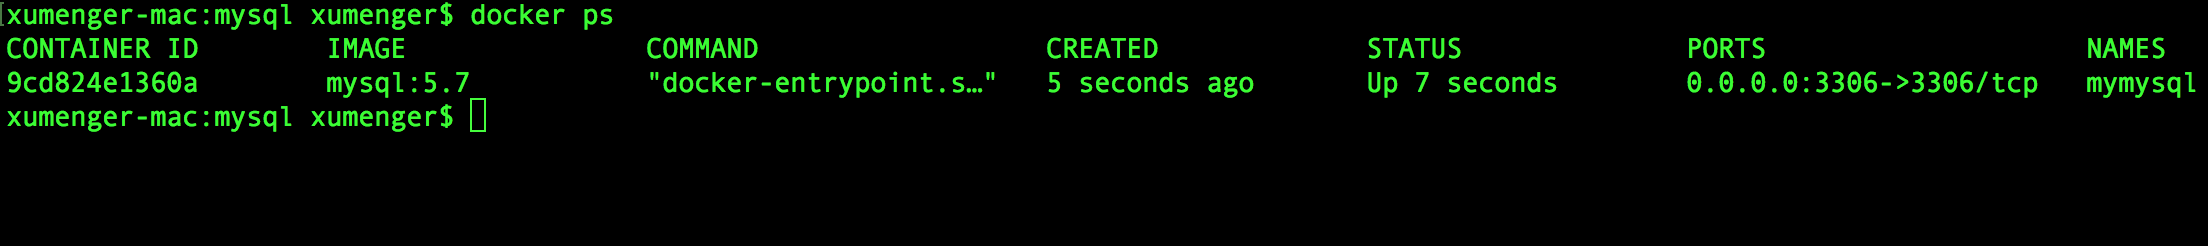
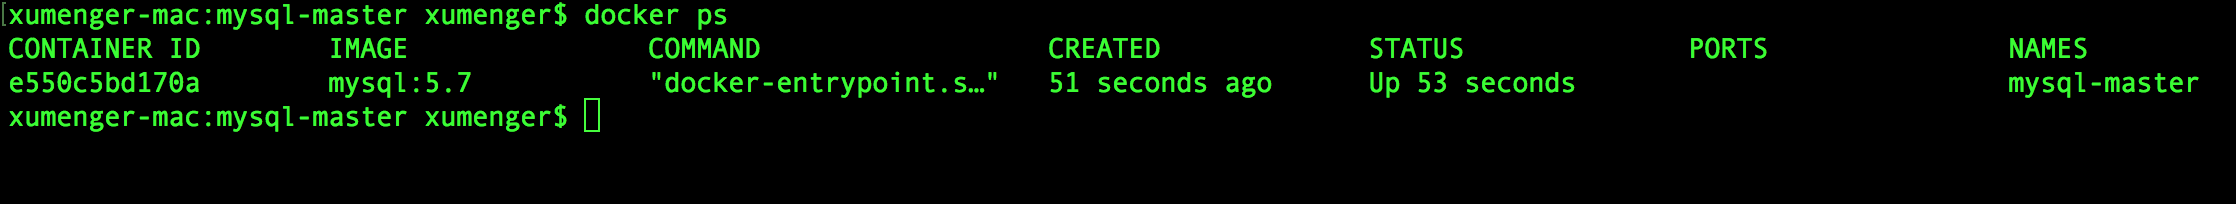
Docker MySQL

Changed region(s): [[0.0, 0.0, 0.3438, 0.6471], [0.2812, 0.1471, 0.7188, 0.4706], [0.75, 0.1471, 1.0, 0.4706]]

diff --git a/_posts/2018-06-26-mysql-master-slave-20180626.md b/_posts/2018-06-26-mysql-master-slave-20180626.md
@@ -2,7 +2,7 @@
 layout: post
 title: MySQL主从复制
 categories: 大型系统架构 数据库之sql 数据库之mysql
-tags: sql mysql 数据库 读写分离 主从机制 binlog 二进制日志 redis docker 虚拟化 
+tags: sql mysql 数据库 读写分离 主从机制 binlog 二进制日志 redis docker 虚拟化 容器 
 ---
 
 ## 关于Docker
@@ -70,22 +70,24 @@ Docker 允许你在容器内运行应用程序， 使用`docker run`命令来在
 然后使用下面的命令运行MySQL 容器
 
 ```
-$ mkdir mysql
-$ cd mysql
+$ mkdir mysql-master
+$ cd mysql-master
 $ mkdir conf logs data
-$ docker run -p 3306:3306 \
-  --name mymysql \
+$ docker run -p 3301:3306 \
+  --name mysql-master \
   -v $PWD/conf:/etc/mysql/conf.d \
   -v $PWD/logs:/logs \
   -v $PWD/data:/var/lib/mysql \
+  --net=host \
   -e MYSQL_ROOT_PASSWORD=123456 \
   -d mysql:5.7
 ```
 
-* **-p 3306:3306**：将容器的3306端口映射到主机的3306端口
+* **-p 3301:3306**：将容器的3306端口映射到主机的3301端口
 * **-v $PWD/conf:/etc/mysql/conf.d**：将主机当前目录下的 conf/my.cnf 挂载到容器的 /etc/mysql/my.cnf
 * **-v $PWD/logs:/logs**：将主机当前目录下的 logs 目录挂载到容器的 /logs
 * **-v $PWD/data:/var/lib/mysql**：将主机当前目录下的data目录挂载到容器的 /var/lib/mysql
+* **--net=host**：共享宿主机的网络，大大降低容器之间的通信复杂度
 * **-e MYSQL_ROOT_PASSWORD=123456**：初始化 root 用户的密码
 * **-d mysql:5.7**启动mysql:5.7容器
 
@@ -93,9 +95,36 @@ $ docker run -p 3306:3306 \
 
 ![](../media/image/2018-06-26/06.png)
 
-测试一下，先`docker exec -it mymysql bash`进入mysql容器，再连接mysql
+测试一下，先`docker exec -it mysql-master bash`进入mysql容器，再连接mysql
 
 ![](../media/image/2018-06-26/07.png)
+
+后续可以直接通过下面的命令启动或关闭或者删除该镜像
+
+```
+$ docker start mysql-master
+$ docker stop mysql-master
+$ docker rm mysql-master
+```
+
+## MySQL主从复制
+
+上面配置的MySQL 作为我们master 使用，按照相同的方式创建一个slave 镜像
+
+```
+$ mkdir mysql-slave-1
+$ cd mysql-slave-1
+$ mkdir conf logs data
+$ docker run -p 3306:3306 \
+  --name mysql-slave-1 \
+  -v $PWD/conf:/etc/mysql/conf.d \
+  -v $PWD/logs:/logs \
+  -v $PWD/data:/var/lib/mysql \
+  -e MYSQL_ROOT_PASSWORD=123456 \
+  -d mysql:5.7
+```
+
+
 
 ## 参考资料
 
@@ -107,3 +136,5 @@ $ docker run -p 3306:3306 \
 * [Docker 命令大全](http://www.runoob.com/docker/docker-command-manual.html)
 * [《mac下使用docker》](https://www.jianshu.com/p/ba4cad306aa5)
 * [《Mac OS X 下安装使用 Docker(16年3月最新方法)》](https://blog.csdn.net/zhouhuakang/article/details/51005861)
+* [《Docker创建Mysql容器并通过命令行连接到容器》](https://www.cnblogs.com/baolong/p/5763412.html)
+* [《如何利用docker快速构建MySQL主从复制环境》](https://www.cnblogs.com/ivictor/p/6440429.html)
